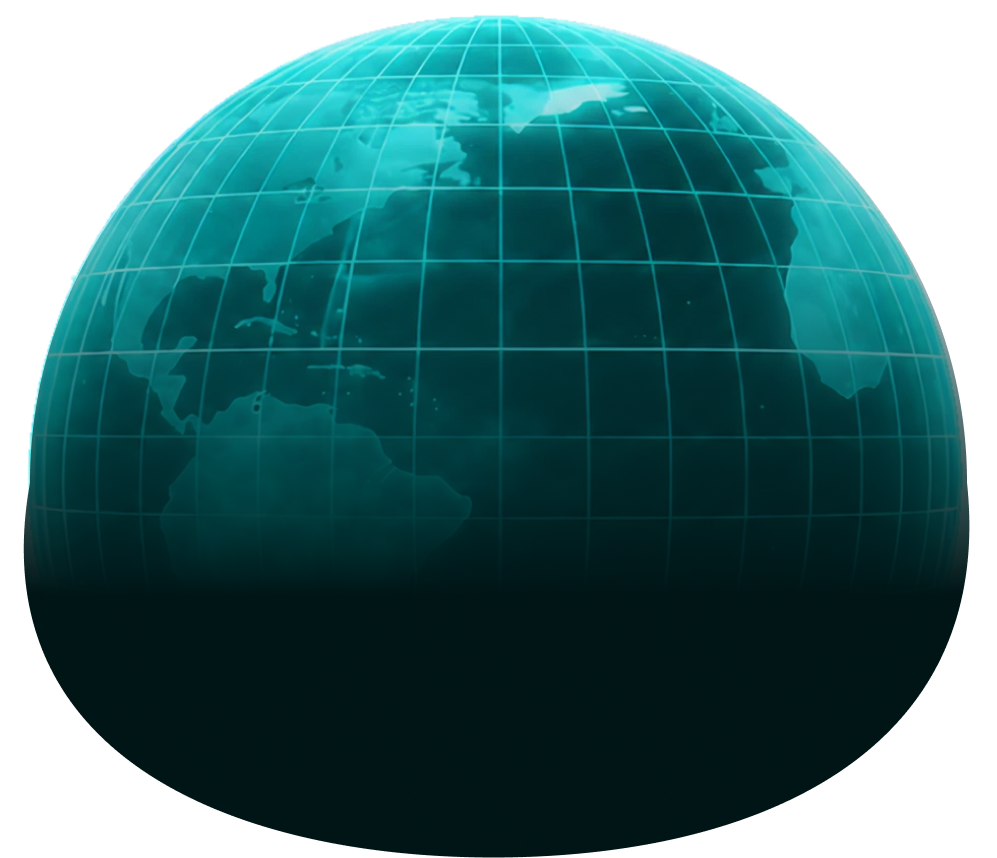
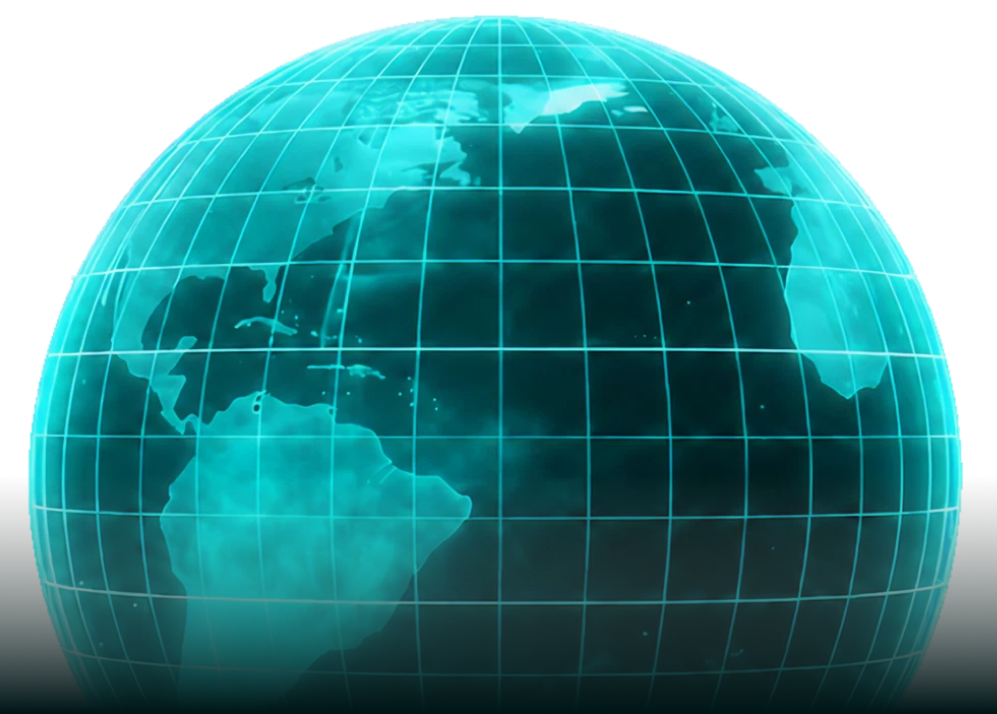
About page added

diff --git a/client/components/about/SliderSection.jsx b/client/components/about/SliderSection.jsx
@@ -8,11 +8,11 @@ import Image from "next/image";
 export default function SliderSection() {
   return (
     <>
-      <section className="bg-black h-full w-full mb-10">
-        <div className=" flex justify-start items-left w-full h-full px-6 sm:px-10 lg:px-62 mx-auto ">
-          <div className="flex flex-col lg:flex-row items-end max-w-[90%] max-h-[300px] gap-14 ">
+      <section className="bg-black h-full w-full mb-10 lg:mb-10">
+        <div className="flex justify-start w-full h-full px-6 sm:px-10 lg:px-62 mx-auto">
+          <div className="flex flex-col lg:flex-row items-start lg:items-end w-full md:w-full lg:max-w-[90%] gap-8 lg:gap-14 text-left ">
             {/* Left Image */}
-            <div className="w-[45%] rounded-2xl overflow-hidden h-full">
+            <div className="w-full md:w-[70%] lg:w-[45%] h-[250px] lg:h-full rounded-2xl overflow-hidden shrink-0">
               <Image
                 src={Assets.AboutVision}
                 alt="Our Vision"
@@ -21,7 +21,7 @@ export default function SliderSection() {
             </div>
 
             {/* Right Content */}
-            <div className="flex-1 ">
+            <div className="flex-1 lg:w-[55%] ">
               <SectionTitle
                 title={
                   <>
@@ -32,12 +32,13 @@ export default function SliderSection() {
               />
 
               <SectionDescription
+                className="max-w-full leading-tight"
                 description={
                   <>
                     Founded with a passion for digital innovation, Techzuno delivers high-quality web and mobile app solutions tailored to modern business needs. From startups to scaling enterprises, we help brands build fast, functional, and beautifully designed digital products.
-                    <br /> 
+                    <br className="hidden lg:block" /> 
                     We specialize in technologies like Next.js, React, Python, WordPress, and Shopify, crafting every solution with precision and care. With a focus on performance, clean design, and scalability, our work is built to grow with you — not around you.
-                    <br /> 
+                    <br className="hidden lg:block" /> 
                     At Techzuno, we don’t just write code — we help you turn ideas into impact through smart development and honest collaboration.
                   </>
                 }
@@ -46,11 +47,11 @@ export default function SliderSection() {
           </div>
         </div>
       </section>
-      <section className="bg-black h-full w-full ">
-        <div className=" flex justify-end items-end w-full h-full px-6 sm:px-10 lg:px-62 mx-auto ">
-          <div className="flex flex-col lg:flex-row items-end max-w-[90%] max-h-[300px] gap-14 ">
+      <section className="bg-black h-full w-full mb-6 lg:mb-10">
+        <div className="flex justify-end w-full h-full px-6 sm:px-10 lg:px-62 mx-auto">
+          <div className="flex flex-col lg:flex-row items-end lg:items-end w-full md:w-full lg:max-w-[90%] gap-8 lg:gap-14 text-right lg:text-left">
             {/* Left Image */}
-            <div className="w-[45%] rounded-2xl overflow-hidden h-full">
+            <div className="w-full md:w-[70%] lg:w-[45%] h-[250px] lg:h-full rounded-2xl overflow-hidden shrink-0">
               <Image
                 src={Assets.AboutMission}
                 alt="Our Mission"
@@ -59,23 +60,24 @@ export default function SliderSection() {
             </div>
 
             {/* Right Content */}
-            <div className="flex-1 ">
+            <div className="flex-1 flex flex-col items-end lg:items-start">
               <SectionTitle
                 title={
                   <>
                     OUR <span className="text-[#38FFF2]">MISSION</span>
                   </>
                 }
-                className="mb-4"
+                className="mb-4 text-right lg:text-left"
               />
 
               <SectionDescription
+                className="text-right lg:text-left max-w-full leading-tight"
                 description={
                   <>
                     Founded with a passion for digital innovation, Techzuno delivers high-quality web and mobile app solutions tailored to modern business needs. From startups to scaling enterprises, we help brands build fast, functional, and beautifully designed digital products.
-                    <br /> 
+                    <br className="hidden lg:block" /> 
                     We specialize in technologies like Next.js, React, Python, WordPress, and Shopify, crafting every solution with precision and care. With a focus on performance, clean design, and scalability, our work is built to grow with you — not around you.
-                    <br /> 
+                    <br className="hidden lg:block" /> 
                     At Techzuno, we don’t just write code — we help you turn ideas into impact through smart development and honest collaboration.
                   </>
                 }

diff --git a/client/components/about/ValuesSection.jsx b/client/components/about/ValuesSection.jsx
@@ -48,27 +48,32 @@ const values = [
 
 export default function ValuesSection() {
   return (
-    <section className="bg-black pt-20">
-      <div className="h-full w-full mx-auto px-6 sm:px-10 lg:px-62 ">
+    <section className="bg-black pt-16 md:pt-20">
+      <div className="h-full w-full mx-auto px-6 sm:px-10 lg:px-62">
         {/* Header */}
-        <div className="text-center mb-14">
+        <div className="text-left md:text-center mb-10 md:mb-14 flex flex-col items-start md:items-center">
           <HeaderBtn text="Welcome to our company" />
           <SectionTitle
-            className="text-[28px] md:text-[38px] font-black mt-3 leading-tight"
+            className="text-[28px] md:text-[32px] lg:text-[38px] font-black mt-3 leading-tight text-left md:text-center w-full"
             title={
               <>
                 CULTURE &amp; VALUES BASED
-                <br />
+                <br className="hidden md:block" />{" "}
                 ON <span className="text-[#B8FAFF]">SIX FUNDAMENTAL</span>{" "}
                 PRINCIPLES.
               </>
             }
           />
-          <KnowMoreBtn className="mt-6" text="Always Ready To Craft Your Next Big Idea" />
+          <div className="hidden md:block w-full ">
+            <KnowMoreBtn className="mt-4 md:mt-6" text="Always Ready To Craft Your Next Big Idea" />
+          </div>
+          <div className=" md:hidden w-full justify-end flex" >
+            <KnowMoreBtn className="mt-4" text="Ready To Craft?" />
+          </div>
         </div>
 
         {/* Cards Grid */}
-        <div className="grid grid-cols-1 sm:grid-cols-2 lg:grid-cols-3 gap-7">
+        <div className="grid grid-cols-1 md:grid-cols-3 gap-4 lg:gap-7">
           {values.map((value, idx) => (
             <div
               key={idx}

diff --git a/client/app/about/page.jsx b/client/app/about/page.jsx
@@ -13,7 +13,8 @@ const page = () => {
   return (
     <div className="flex flex-col h-full pt-16 md:pt-24 lg:pt-24 ">
       <AboutHeader />
-      <About
+      
+      {/* <About
         image={Assets.Aboutimg}
         title={
           <>
@@ -26,14 +27,19 @@ const page = () => {
         }
         description={`Founded with a passion for digital innovation, Techzuno delivers high-quality web and mobile app solutions tailored to modern business needs. From startups to scaling enterprises, we help brands build fast, functional, and beautifully designed digital products We specialize in technologies like Next.js, React, Python, WordPress, and Shopify, crafting every solution with precision and care. With a focus on performance, clean design, and scalability, our work is built to grow with you — not around you. At Techzuno, we don’t just write code — we help you turn ideas into impact through smart development and honest collaboration`}
         buttonText="Download Company Profile"
-      />
-      <CompanySection />
-      <SliderSection/>
+      /> */}
+      
+      {/* 
+      <CompanySection /> 
+      <SliderSection/> 
       <ValuesSection />
       <TechStack />
-      <MilestonesSection />
-      <CTA />
+      */}
       
+      <MilestonesSection />
+      {/* 
+      <CTA />
+      */}
     </div>
   );
 };

diff --git a/client/components/about/CompanySection.jsx b/client/components/about/CompanySection.jsx
@@ -24,26 +24,26 @@ const stats = [
 export default function CompanySection() {
   return (
     <section className="relative bg-black pb-16 md:pb-24 overflow-hidden">
-      <div className="px-6 sm:px-10 lg:px-62 mx-auto">
-        <div className="text-center mx-auto flex flex-col items-center justify-center">
+      <div className="px-6 sm:px-10 lg:px-62 mx-auto w-full">
+        <div className="text-right md:text-center mx-auto flex flex-col items-end md:items-center justify-center w-full">
           <HeaderBtn text="WELCOME TO OUR COMPANY" />
-          <SectionTitle className="mb-4 md:mb-6" title={<>
-            BUILD PROFESSIONAL <span className="text-[#38FFF2]">WEB</span>
-            <br />
+          <SectionTitle className="mb-4 md:mb-6 text-right md:text-center w-full" title={<>
+            BUILD PROFESSIONAL<br className="block md:hidden"/> <span className="text-[#38FFF2]">WEB</span>
+            <br className="hidden md:block"/>{" "}
             <span className="text-[#38FFF2]">AND APPS</span> WITH PASSION
           </>} />
         </div>
 
-        <div className="grid grid-cols-1 md:grid-cols-3 text-center mx-auto mt-8 max-w-[800px]">
+        <div className="flex flex-col md:grid md:grid-cols-3 gap-6 md:gap-0 text-center mx-auto mt-8 max-w-full md:max-w-[800px]">
           {stats.map((stat, i) => {
             
 
             return (
-              <div key={i} className="flex flex-col items-center gap-2">
+              <div key={i} className="flex flex-col items-center gap-4 md:gap-3">
                 <div className="text-5xl md:text-[40px] font-toxigenesis text-white tracking-tight drop-shadow-md">
                   <CountUpNumber end={stat.value} suffix={"+"} />
                 </div>
-                <p className="text-white text-[14px] md:text-[12px] tracking-wide font-sans whitespace-pre-line max-w-50">
+                <p className="text-white text-[14px] md:text-[12px] tracking-wide font-sans whitespace-pre-line max-w-54">
                   {stat.label}
                 </p>
               </div>

diff --git a/client/components/about/AboutHeader.jsx b/client/components/about/AboutHeader.jsx
@@ -3,13 +3,13 @@ import Image from "next/image";
 
 export default function AboutHeader() {
   return (
-    <div className="relative h-72">
+    <div className="relative h-40 sm:h-56 md:h-72">
       <div className="absolute inset-0">
         <Image src={Assets.AboutBg} alt="Background" className="h-full w-full object-cover" />
       </div>
 
-      <div className=" w-full h-full mx-auto flex justify-center items-center font-semibold relative z-10">
-        <h2 className="text-white text-5xl font-toxigenesis tracking-wider uppercase">
+      <div className="w-full h-full px-6 sm:px-10 lg:px-62 mx-auto flex justify-center items-center font-semibold relative z-10">
+        <h2 className="text-white text-3xl sm:text-4xl md:text-5xl font-toxigenesis tracking-wider uppercase">
           About Us
         </h2>
       </div>

diff --git a/client/components/about/MilestonesSection.jsx b/client/components/about/MilestonesSection.jsx
@@ -75,7 +75,7 @@ export default function MilestonesSection() {
             <div className="max-h-[80%] w-full flex relative items-center justify-center">
               {/* Vertical Dashed Line */}
               <div
-                className="absolute left-[7.8px] top-0 bottom-0 w-[0.5px]"
+                className="absolute left-[7.8px] top-0 bottom-0 w-[0.5px] "
                 style={{
                   backgroundImage:
                     "repeating-linear-gradient(to bottom, rgba(255,255,255,0.9) 0px, rgba(255,255,255,0.9) 5px, transparent 5px, transparent 10px)",

diff --git a/client/components/buttons/SectionDescription.jsx b/client/components/buttons/SectionDescription.jsx
@@ -2,7 +2,7 @@ import React from "react";
 
 const SectionDescription = ({ description, className = "" }) => {
   return (
-    <p className={`text-white/80 mb-6 md:mb-8 text-[15px] sm:text-[13px] leading-[1.3] max-w-full md:max-w-[75%] lg:max-w-[90%] ${className}`}>
+    <p className={`text-white/80 mb-6 md:mb-8 text-[15px] sm:text-[13px] leading-[1.3] max-w-full md:max-w-[75%] lg:max-w-[90%] ${className} `}>
       {description}
     </p>
   );

diff --git a/client/components/buttons/SectionTitle.jsx b/client/components/buttons/SectionTitle.jsx
@@ -2,7 +2,7 @@ import React from "react";
 
 const SectionTitle = ({ title, className }) => {
   return (
-    <h2 className={`text-[28px] sm:text-[34px] md:text-[40px] lg:text-[46px] font-semibold  tracking-[0.07em] leading-[1.2] ${className}`}>
+    <h2 className={`text-[27px] sm:text-[34px] md:text-[40px] lg:text-[46px] font-semibold  tracking-[0.07em] leading-[1.2] ${className}`}>
       {title}
     </h2>
   );